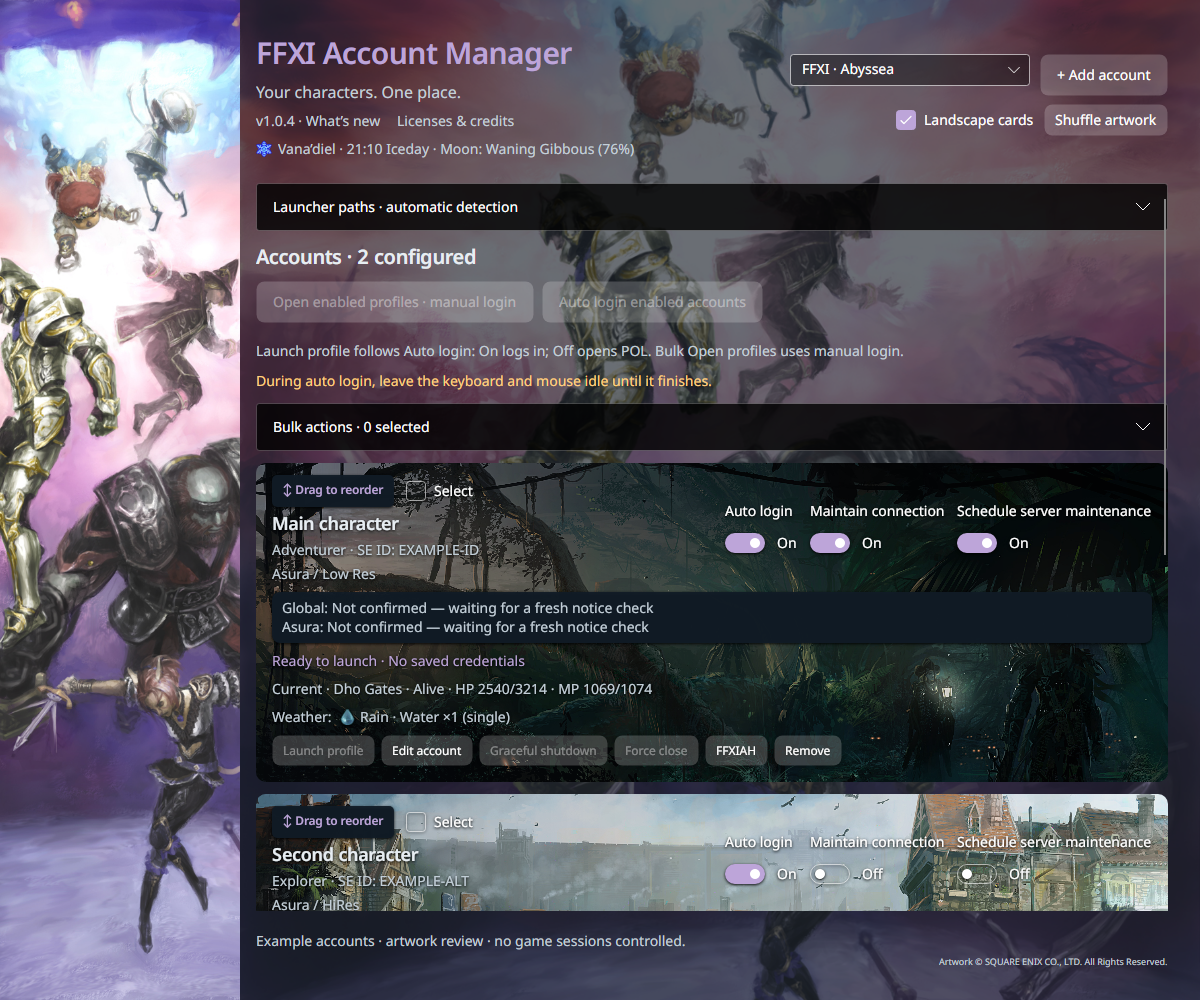
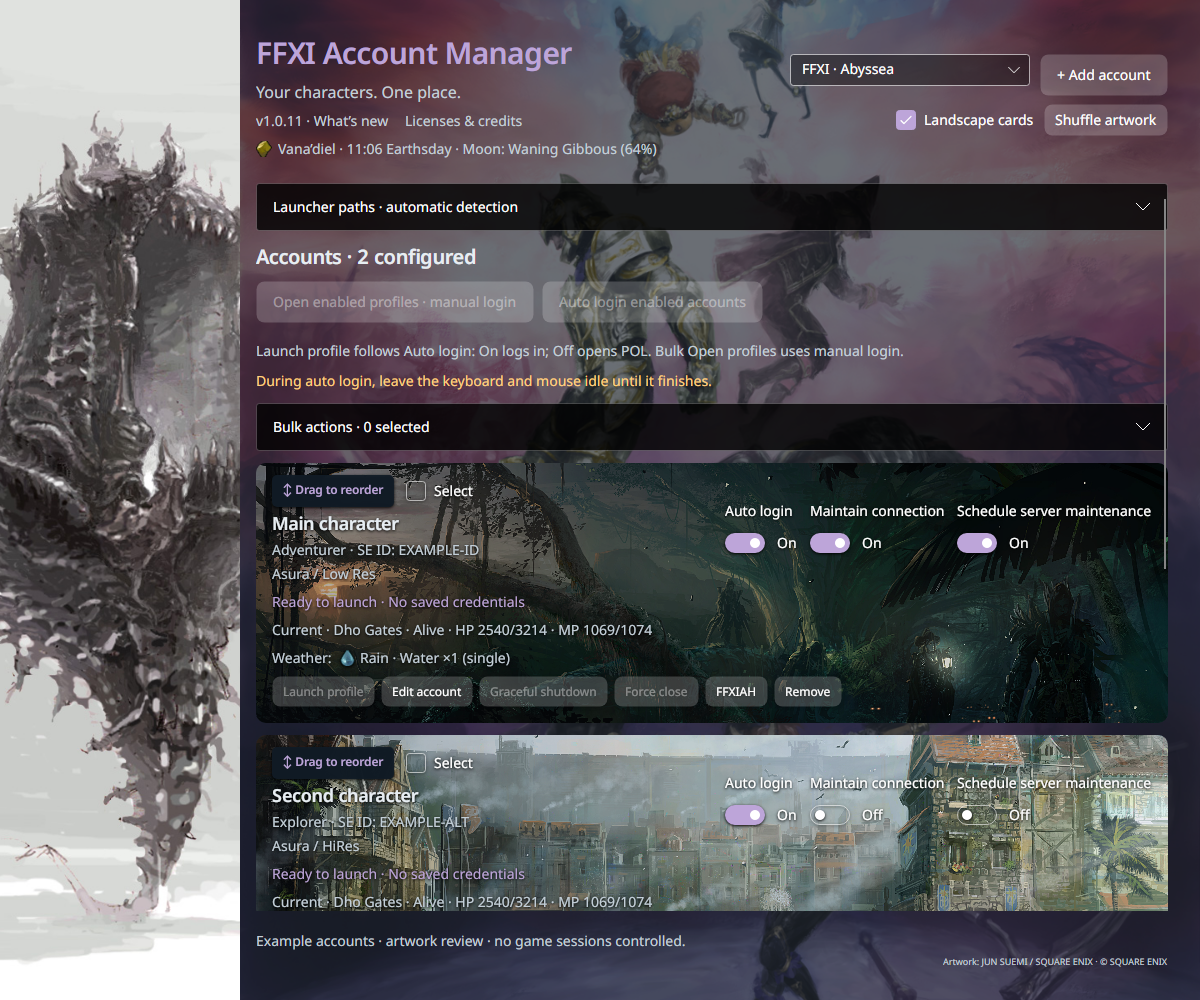
Pair Cavernous Maw with Abyssea and refresh Promyvion backdrop

diff --git a/src/FFXILauncher.Desktop/ThemeCatalog.cs b/src/FFXILauncher.Desktop/ThemeCatalog.cs
@@ -19,23 +19,22 @@ public static class ThemeCatalog
         new("dracula", "UI · Dracula", "#282A36", "#343746", "#222430", "#F8F8F2", "#C4BDDF", "#BD93F9"),
         new("mocha", "UI · Mocha", "#1E1E2E", "#313244", "#181825", "#CDD6F4", "#BAC2DE", "#CBA6F7"),
         new("adoulin", "FFXI · Western Adoulin", "#151B22", "#E51E2933", "#EB141D26", "#F2E9DC", "#CEC7BB", "#E9BB72", Artwork: "Adoulin.jpg"),
-        new("rakaznar", "FFXI · Promyvion", "#191626", "#E52C2541", "#EB201B32", "#F2EAFD", "#D1C0E1", "#C0A0F0", Artwork: "Promyvion.jpg"),
+        new("rakaznar", "FFXI · Promyvion", "#191626", "#E52C2541", "#EB201B32", "#F2EAFD", "#D1C0E1", "#C0A0F0", Artwork: "Amano3.jpg", SideArtwork: "Promyvion.jpg", Credit: "Artwork: YOSHITAKA AMANO / SQUARE ENIX · © SQUARE ENIX"),
         new("eastern-adoulin", "FFXI · Eastern Adoulin", "#101820", "#E51B2937", "#F0111C27", "#E7EDF2", "#C3CFD8", "#97C9D6", Artwork: "EasternAdoulin.jpg", Portrait: false),
         new("ulbuka", "FFXI · East Ulbuka", "#101820", "#E51B2937", "#F0111C27", "#E7EDF2", "#C3CFD8", "#98CAB5", Artwork: "Ulbuka.jpg", Portrait: false),
         new("amano-aht", "FFXI · Treasures of Aht Urhgan", "#101820", "#E51B2937", "#F0111C27", "#E7EDF2", "#C3CFD8", "#D5C59D", Artwork: "Amano5.jpg", Portrait: true, Credit: "©2006 YOSHITAKA AMANO · © SQUARE ENIX"),
-        new("maw", "FFXI · Cavernous Maw", "#101820", "#E51B2937", "#F0111C27", "#E7EDF2", "#C3CFD8", "#BBAFD0", Artwork: "Maw.jpg", Portrait: true),
         new("amano-blue", "FFXI · Amano · Blue illustration", "#101820", "#E51B2937", "#F0111C27", "#E7EDF2", "#C3CFD8", "#95D8E2", Artwork: "Amano13.jpg", Portrait: false, Credit: "Artwork: YOSHITAKA AMANO · © SQUARE ENIX"),
         new("amano-map", "FFXI · Amano · World map", "#101820", "#E51B2937", "#F0111C27", "#E7EDF2", "#C3CFD8", "#DEBE76", Artwork: "Amano0.jpg", Portrait: false, Credit: "Artwork: YOSHITAKA AMANO · © SQUARE ENIX"),
         new("amano-zilart", "FFXI · Amano · Zilart", "#101820", "#E51B2937", "#F0111C27", "#E7EDF2", "#C3CFD8", "#A1CDE8", Artwork: "Amano1.jpg", Portrait: false, Credit: "Artwork: YOSHITAKA AMANO · © SQUARE ENIX"),
         new("arita-crystal", "FFXI · Arita · Crystal illustration", "#101820", "#E51B2937", "#F0111C27", "#E7EDF2", "#C3CFD8", "#9FD9D4", Artwork: "Arita0.jpg", Portrait: false),
         new("ffxi-original", "FFXI · Original FFXI", "#101820", "#E51B2937", "#F0111C27", "#E7EDF2", "#C3CFD8", "#8CD4E3", Artwork: "Illustration0.jpg", Portrait: true),
-        new("abyssea", "FFXI · Abyssea", "#101820", "#E51B2937", "#F0111C27", "#E7EDF2", "#C3CFD8", "#BDA5D9", Artwork: "Illustration6.jpg", Portrait: true),
+        new("abyssea", "FFXI · Abyssea", "#101820", "#E51B2937", "#F0111C27", "#E7EDF2", "#C3CFD8", "#BDA5D9", Artwork: "Illustration6.jpg", Portrait: true, SideArtwork: "Maw.jpg", Credit: "Artwork: JUN SUEMI / SQUARE ENIX · © SQUARE ENIX"),
         new("amano-autumn", "FFXI · Amano · Autumn", "#101820", "#E51B2937", "#F0111C27", "#E7EDF2", "#C3CFD8", "#D5C59D", Artwork: "Amano10.jpg", Portrait: true, Credit: "Artwork: YOSHITAKA AMANO · © SQUARE ENIX", SideArtwork: "Amano12.jpg", BackgroundVerticalFocus: 0)
     };
 
     public static IReadOnlyList<string> Landscapes { get; } = new[] { "Ulbuka.jpg", "Adoulin.jpg", "EasternAdoulin.jpg", "Promyvion.jpg" };
     public static string DefaultLandscape(Guid account) => Landscapes[(int)(BitConverter.ToUInt32(account.ToByteArray(), 0) % (uint)Landscapes.Count)];
-    public static AppTheme Resolve(string? id) => All.FirstOrDefault(t => t.Id == id) ?? All[0];
+    public static AppTheme Resolve(string? id) => All.FirstOrDefault(t => t.Id == (id == "maw" ? "abyssea" : id)) ?? All[0];
     public static void Apply(AppTheme theme)
     {
         var app = Application.Current!;

diff --git a/tests/FFXILauncher.Desktop.Smoke/Program.cs b/tests/FFXILauncher.Desktop.Smoke/Program.cs
@@ -430,7 +430,9 @@ configured.FindControl<Expander>("LauncherSetup")!.IsExpanded = false;
 Dispatcher.UIThread.RunJobs();
 using (var frame = configured.CaptureRenderedFrame() ?? throw new Exception("No configured frame")) frame.Save("artifacts/dashboard-accounts.png", PngBitmapEncoderOptions.Default);
 Console.WriteLine("PASS: configured dashboard and maintenance persistence.");
-if (ThemeCatalog.All.Count != 17 || ThemeCatalog.All.Count(t => t.Artwork != null) != 13) throw new Exception("Theme picker must contain four dark UI and thirteen artwork themes.");
+if (ThemeCatalog.All.Count != 16 || ThemeCatalog.All.Count(t => t.Artwork != null) != 12) throw new Exception("Theme picker must contain four dark UI and twelve artwork themes.");
+if (ThemeCatalog.All.Any(t => t.Id == "maw") || ThemeCatalog.Resolve("maw") is not { Id: "abyssea", SideArtwork: "Maw.jpg", Artwork: "Illustration6.jpg" }) throw new Exception("Existing Cavernous Maw selections must resolve to the merged Abyssea theme.");
+if (ThemeCatalog.Resolve("rakaznar") is not { Artwork: "Amano3.jpg", SideArtwork: "Promyvion.jpg" }) throw new Exception("Promyvion must retain its zone illustration on the left and use the chosen primary background.");
 var themePicker = configured.FindControl<ComboBox>("ThemePicker")!;
 foreach (var theme in ThemeCatalog.All)
 {
@@ -441,7 +443,7 @@ foreach (var theme in ThemeCatalog.All)
     {
         var sideCrop = (CroppedBitmap)configured.FindControl<Image>("PortraitArtwork")!.Source!;
         var backgroundCrop = (CroppedBitmap)configured.FindControl<Image>("BackgroundArtwork")!.Source!;
-        if (ReferenceEquals(sideCrop.Source, backgroundCrop.Source) || backgroundCrop.SourceRect.Y != 0) throw new Exception("Autumn must use independent side art and preserve the top of its right artwork.");
+        if (ReferenceEquals(sideCrop.Source, backgroundCrop.Source) || (theme.Id == "amano-autumn" && backgroundCrop.SourceRect.Y != 0)) throw new Exception("Paired themes must use independent images; Autumn must preserve the top of its right artwork.");
     }
     if (new ConfigurationStore(directory).Load().Theme != theme.Id) throw new Exception("Selected theme did not persist.");
     if ((configured.FindControl<Image>("BackgroundArtwork")!.Source != null) != (theme.Artwork != null)) throw new Exception("Artwork theme did not load: " + theme.Id + " · " + configured.FindControl<TextBlock>("Activity")!.Text);
@@ -484,7 +486,7 @@ configured.FindControl<Button>("CopyAddonCommandButton")!.RaiseEvent(new RoutedE
 Dispatcher.UIThread.RunJobs();
 if (configured.Clipboard!.TryGetTextAsync().GetAwaiter().GetResult() != "//lua load FFXIManager" || !configured.FindControl<TextBox>("InitialAddonCommand")!.IsReadOnly) throw new Exception("Copy action must write the displayed command and retain manual text selection.");
 configured.FindControl<Grid>("AddonCommandPanel")!.IsVisible = false;
-Console.WriteLine("PASS: all seventeen themes load, theme choice persists, unknown themes fall back, and command icon writes the displayed clipboard text.");
+Console.WriteLine("PASS: all sixteen themes load, theme choice persists, unknown themes fall back, and command icon writes the displayed clipboard text.");
 configured.Height = 2200;
 Dispatcher.UIThread.RunJobs();
 var beforeDrag = new ConfigurationStore(directory).Load().ConfiguredAccounts.ToArray();

diff --git a/README.md b/README.md
@@ -10,7 +10,7 @@ These screenshots show the actual application UI with example accounts and no sa
 
 ![Account dashboard with an FFXI artwork theme](docs/images/dashboard.png)
 
-Choose one of four dark UI themes or 13 artwork themes, including Abyssea. Expanded windows show a tall cropped art panel with a background behind the accounts; Amano · Autumn pairs two different images. Disable Landscape cards for more translucent account cards; enable it for prominent landscape images with minimal shading. Shuffle uses every image before repeating and avoids duplicate visible cards while enough images are available. Images keep their aspect ratio. Drag the handle on each card to reorder accounts. **Auto login** controls whether a character's Launch profile button completes login. **Maintain connection** enables recovery; **Schedule server maintenance** plans downtime around applicable notices.
+Choose one of four dark UI themes or 12 artwork themes, including Abyssea. Expanded windows show a tall cropped art panel with a background behind the accounts; Amano · Autumn, Abyssea and Promyvion pair two different images. Disable Landscape cards for more translucent account cards; enable it for prominent landscape images with minimal shading. Shuffle uses every image before repeating and avoids duplicate visible cards while enough images are available. Images keep their aspect ratio. Drag the handle on each card to reorder accounts. **Auto login** controls whether a character's Launch profile button completes login. **Maintain connection** enables recovery; **Schedule server maintenance** plans downtime around applicable notices.
 
 [See every theme at full size](docs/themes/README.md), including the narrow-window Abyssea view.
 

diff --git a/docs/themes/README.md b/docs/themes/README.md
@@ -1,10 +1,10 @@
-# Theme previews — v1.0.10
+# Theme previews — v1.0.11
 
-Actual application renders with example accounts. No real credentials or game sessions are used. Landscape cards are off to show the translucent surfaces. Expanded artwork views use aspect-preserving crops in the left panel and right background; Amano · Autumn pairs two distinct images.
+Actual application renders with example accounts. No real credentials or game sessions are used. Landscape cards are off to show the translucent surfaces. Expanded artwork views use aspect-preserving crops in the left panel and right background; Amano · Autumn, Abyssea and Promyvion pair two distinct images.
 
 ## Artwork themes
 
-![All thirteen artwork themes](artwork-sheet.png)
+![All twelve artwork themes](artwork-sheet.png)
 
 [Landscape cards enabled: prominent artwork and distinct images](abyssea-landscape-cards.png). Shuffle uses the entire landscape pool before repeating.
 
@@ -25,7 +25,6 @@ Actual application renders with example accounts. No real credentials or game se
 | FFXI · Eastern Adoulin | [Full size](eastern-adoulin.png) |
 | FFXI · East Ulbuka | [Full size](ulbuka.png) |
 | FFXI · Treasures of Aht Urhgan | [Full size](amano-aht.png) |
-| FFXI · Cavernous Maw | [Full size](maw.png) |
 | FFXI · Amano · Blue illustration | [Full size](amano-blue.png) |
 | FFXI · Amano · World map | [Full size](amano-map.png) |
 | FFXI · Amano · Zilart | [Full size](amano-zilart.png) |

diff --git a/CHANGELOG.md b/CHANGELOG.md
@@ -1,5 +1,12 @@
 # Release notes
 
+## 1.0.11
+
+- Promyvion now uses the selected Amano illustration as its primary right background, retaining the original zone artwork on the left.
+
+- Abyssea now pairs Cavernous Maw on the left with Abyssea artwork across the right.
+- Removed the standalone Cavernous Maw theme; existing selections resolve to the merged Abyssea theme.
+
 ## 1.0.10
 
 - Added FFXI · Amano · Autumn, pairing the character illustration on the left with the autumn artwork across the right.

diff --git a/src/FFXILauncher.Desktop/Assets/Themes/SOURCES.md b/src/FFXILauncher.Desktop/Assets/Themes/SOURCES.md
@@ -17,6 +17,7 @@ URL root: https://we-are-vanadiel.finalfantasyxi.com/assets/images/gallery/seaso
 | Amano1.jpg | 1/vol/1/1.jpg |
 | Amano10.jpg | 1/vol/1/10.jpg |
 | Amano12.jpg | 1/vol/1/12.jpg |
+| Amano3.jpg | 1/vol/1/3.jpg |
 | Amano5.jpg | 1/vol/1/5.jpg |
 | Arita0.jpg | 8/vol/3/0.jpg |
 | Illustration0.jpg | 2/vol/1/0.jpg |
